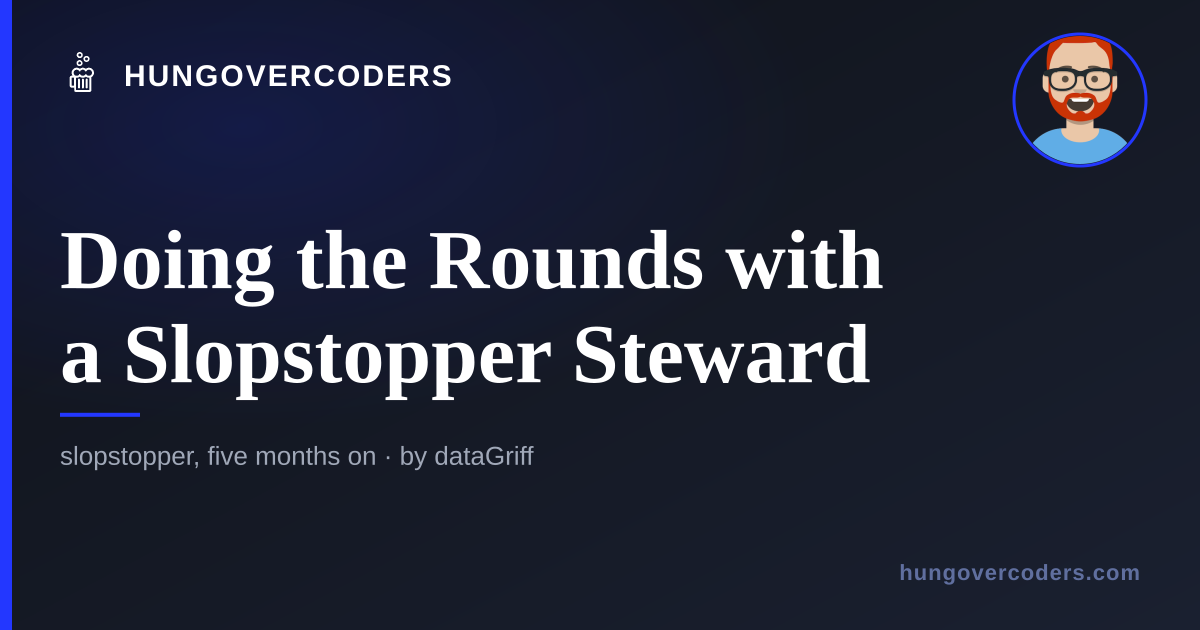
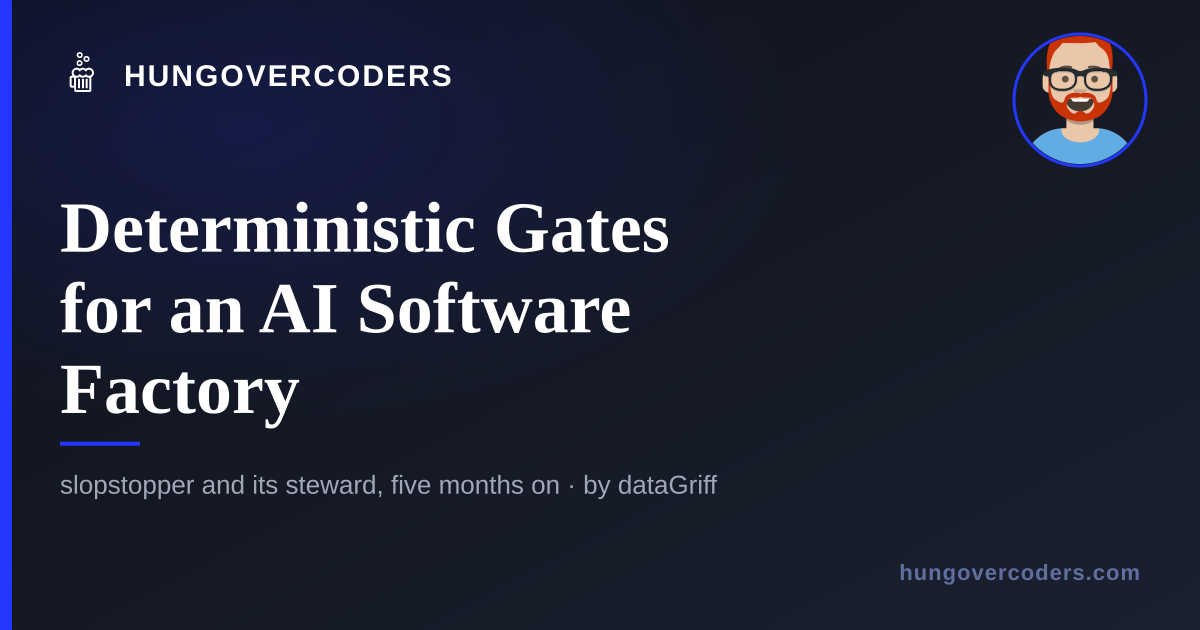
docs(blog): title the post on the idea, not the metaphor (#86)
"Doing the Rounds with a Slopstopper Steward" meant nothing to anyone
who hadn't read the post. The title is now "Deterministic Gates for an
AI Software Factory"; the description names slopstopper and the steward
and what each does; the opener states the idea in one line before the
want; and the share image carries the new title with the product names
in its tagline.

Claude-Session: https://claude.ai/code/session_01RQF49TDta4WCef1C4XcgjV

Changed region(s): [[0.0308, 0.3016, 0.74, 0.7841], [0.4317, 0.3016, 0.4625, 0.3317]]

diff --git a/src/content/blog/2026-11-07-slopstopper-steward-course-and-friends.md b/src/content/blog/2026-11-07-slopstopper-steward-course-and-friends.md
@@ -1,8 +1,8 @@
 ---
-title: Doing the Rounds with a Slopstopper Steward
+title: Deterministic Gates for an AI Software Factory
 date: 2026-11-07
 author: dataGriff
-description: Slopstopper five months on, with twenty-five checks, a course on a slopped demo, and a steward that keeps every repo current without me remembering
+description: Agents write the code, slopstopper's twenty-five deterministic checks decide what ships, and a steward keeps those gates current on every repo. Five months on from the first install
 tags:
   - Slopstopper
   - Steward
@@ -14,7 +14,7 @@ image:
   path: /assets/2026-11-07-slopstopper-steward-course-and-friends/link.png
 ---
 
-I wanted [slopstopper](https://slopstopper.dev) to look after itself. It already does on this site. I wanted the same on every repo I've got, on the current version, without me being the one who remembers to bump a pin on a Sunday with a head on me. Back in [June](/blog/2026-06-21-slopstopper-cli-and-tooling/) I installed it here and wrote up the seven things it found. It's November now, there are twenty-five checks, there's a course, and there's a second tool called the [steward](https://github.com/hungovercoders/slopstopper-steward) that does the rounds of my repos so I don't have to. Read on fellow hungovercoder and meet the robot that nags the other robots.
+The idea in one line is deterministic gates on a software factory where agents write the code. [Slopstopper](https://slopstopper.dev) is the gates, and I wanted it to look after itself. It already does on this site. I wanted the same on every repo I've got, on the current version, without me being the one who remembers to bump a pin on a Sunday with a head on me. Back in [June](/blog/2026-06-21-slopstopper-cli-and-tooling/) I installed it here and wrote up the seven things it found. It's November now, there are twenty-five checks, there's a course, and there's a second tool called the [steward](https://github.com/hungovercoders/slopstopper-steward) that does the rounds of my repos so I don't have to. Read on fellow hungovercoder and meet the robot that nags the other robots.
 
 ## A Factory Needs Inspection
 
